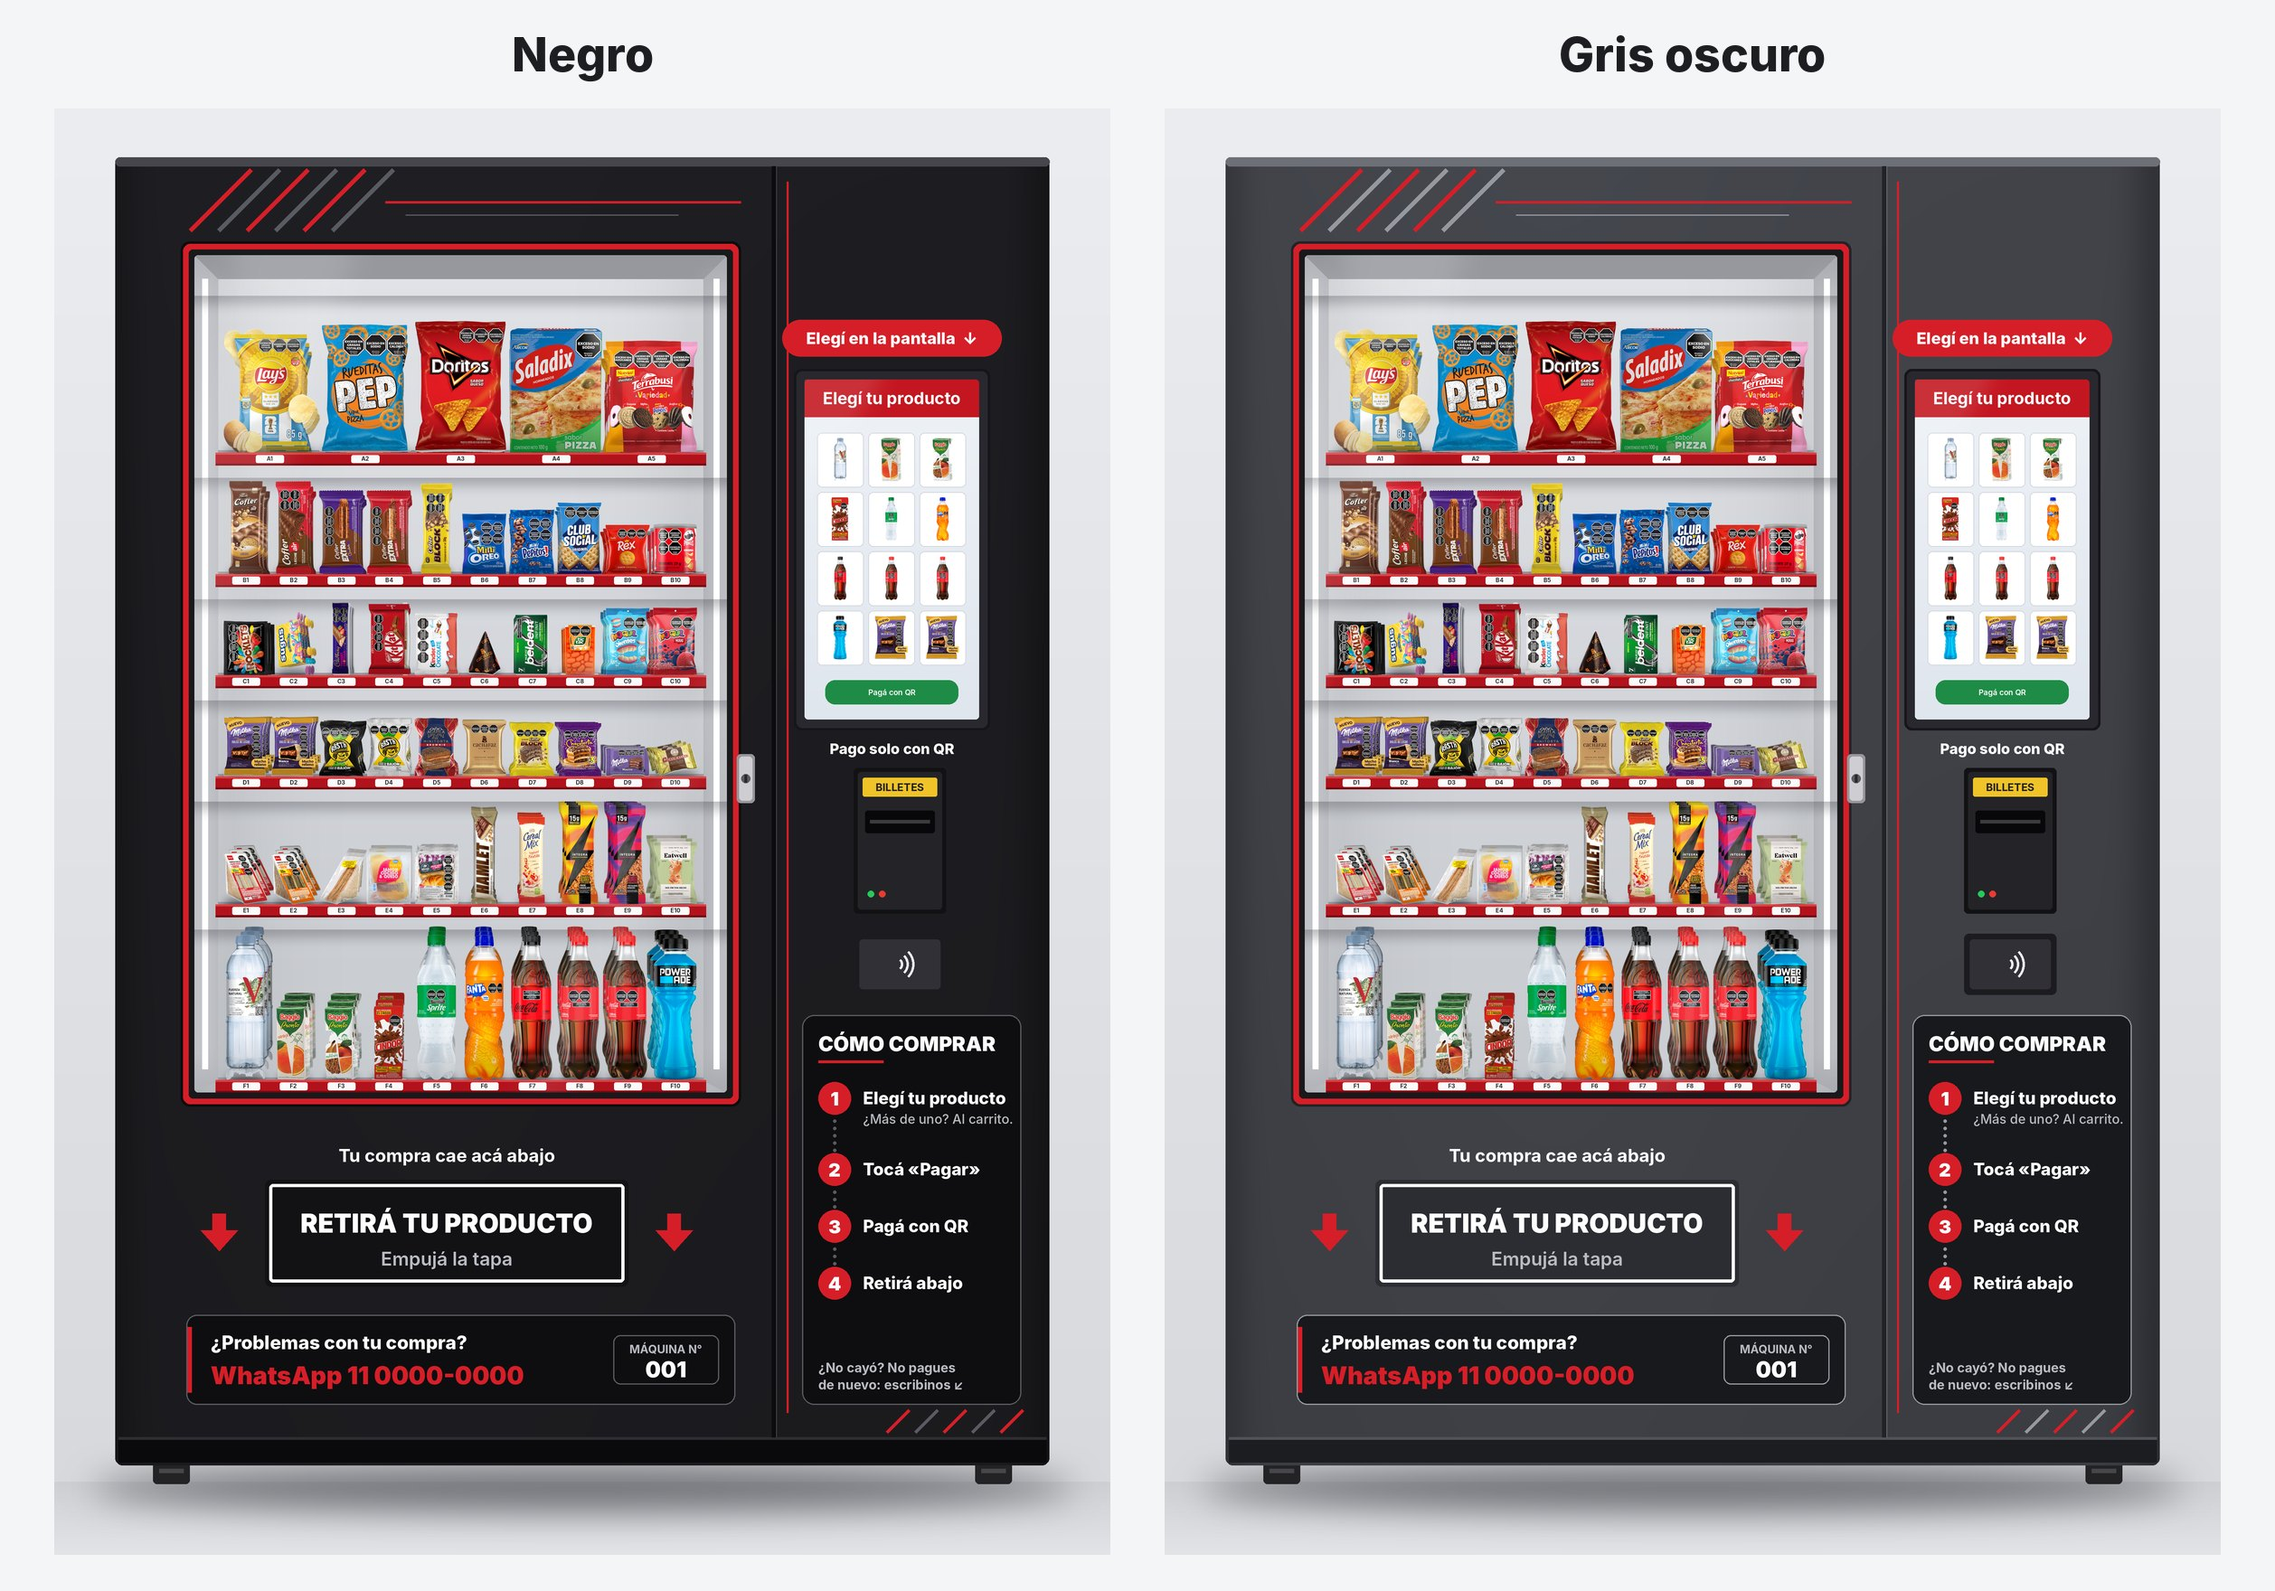
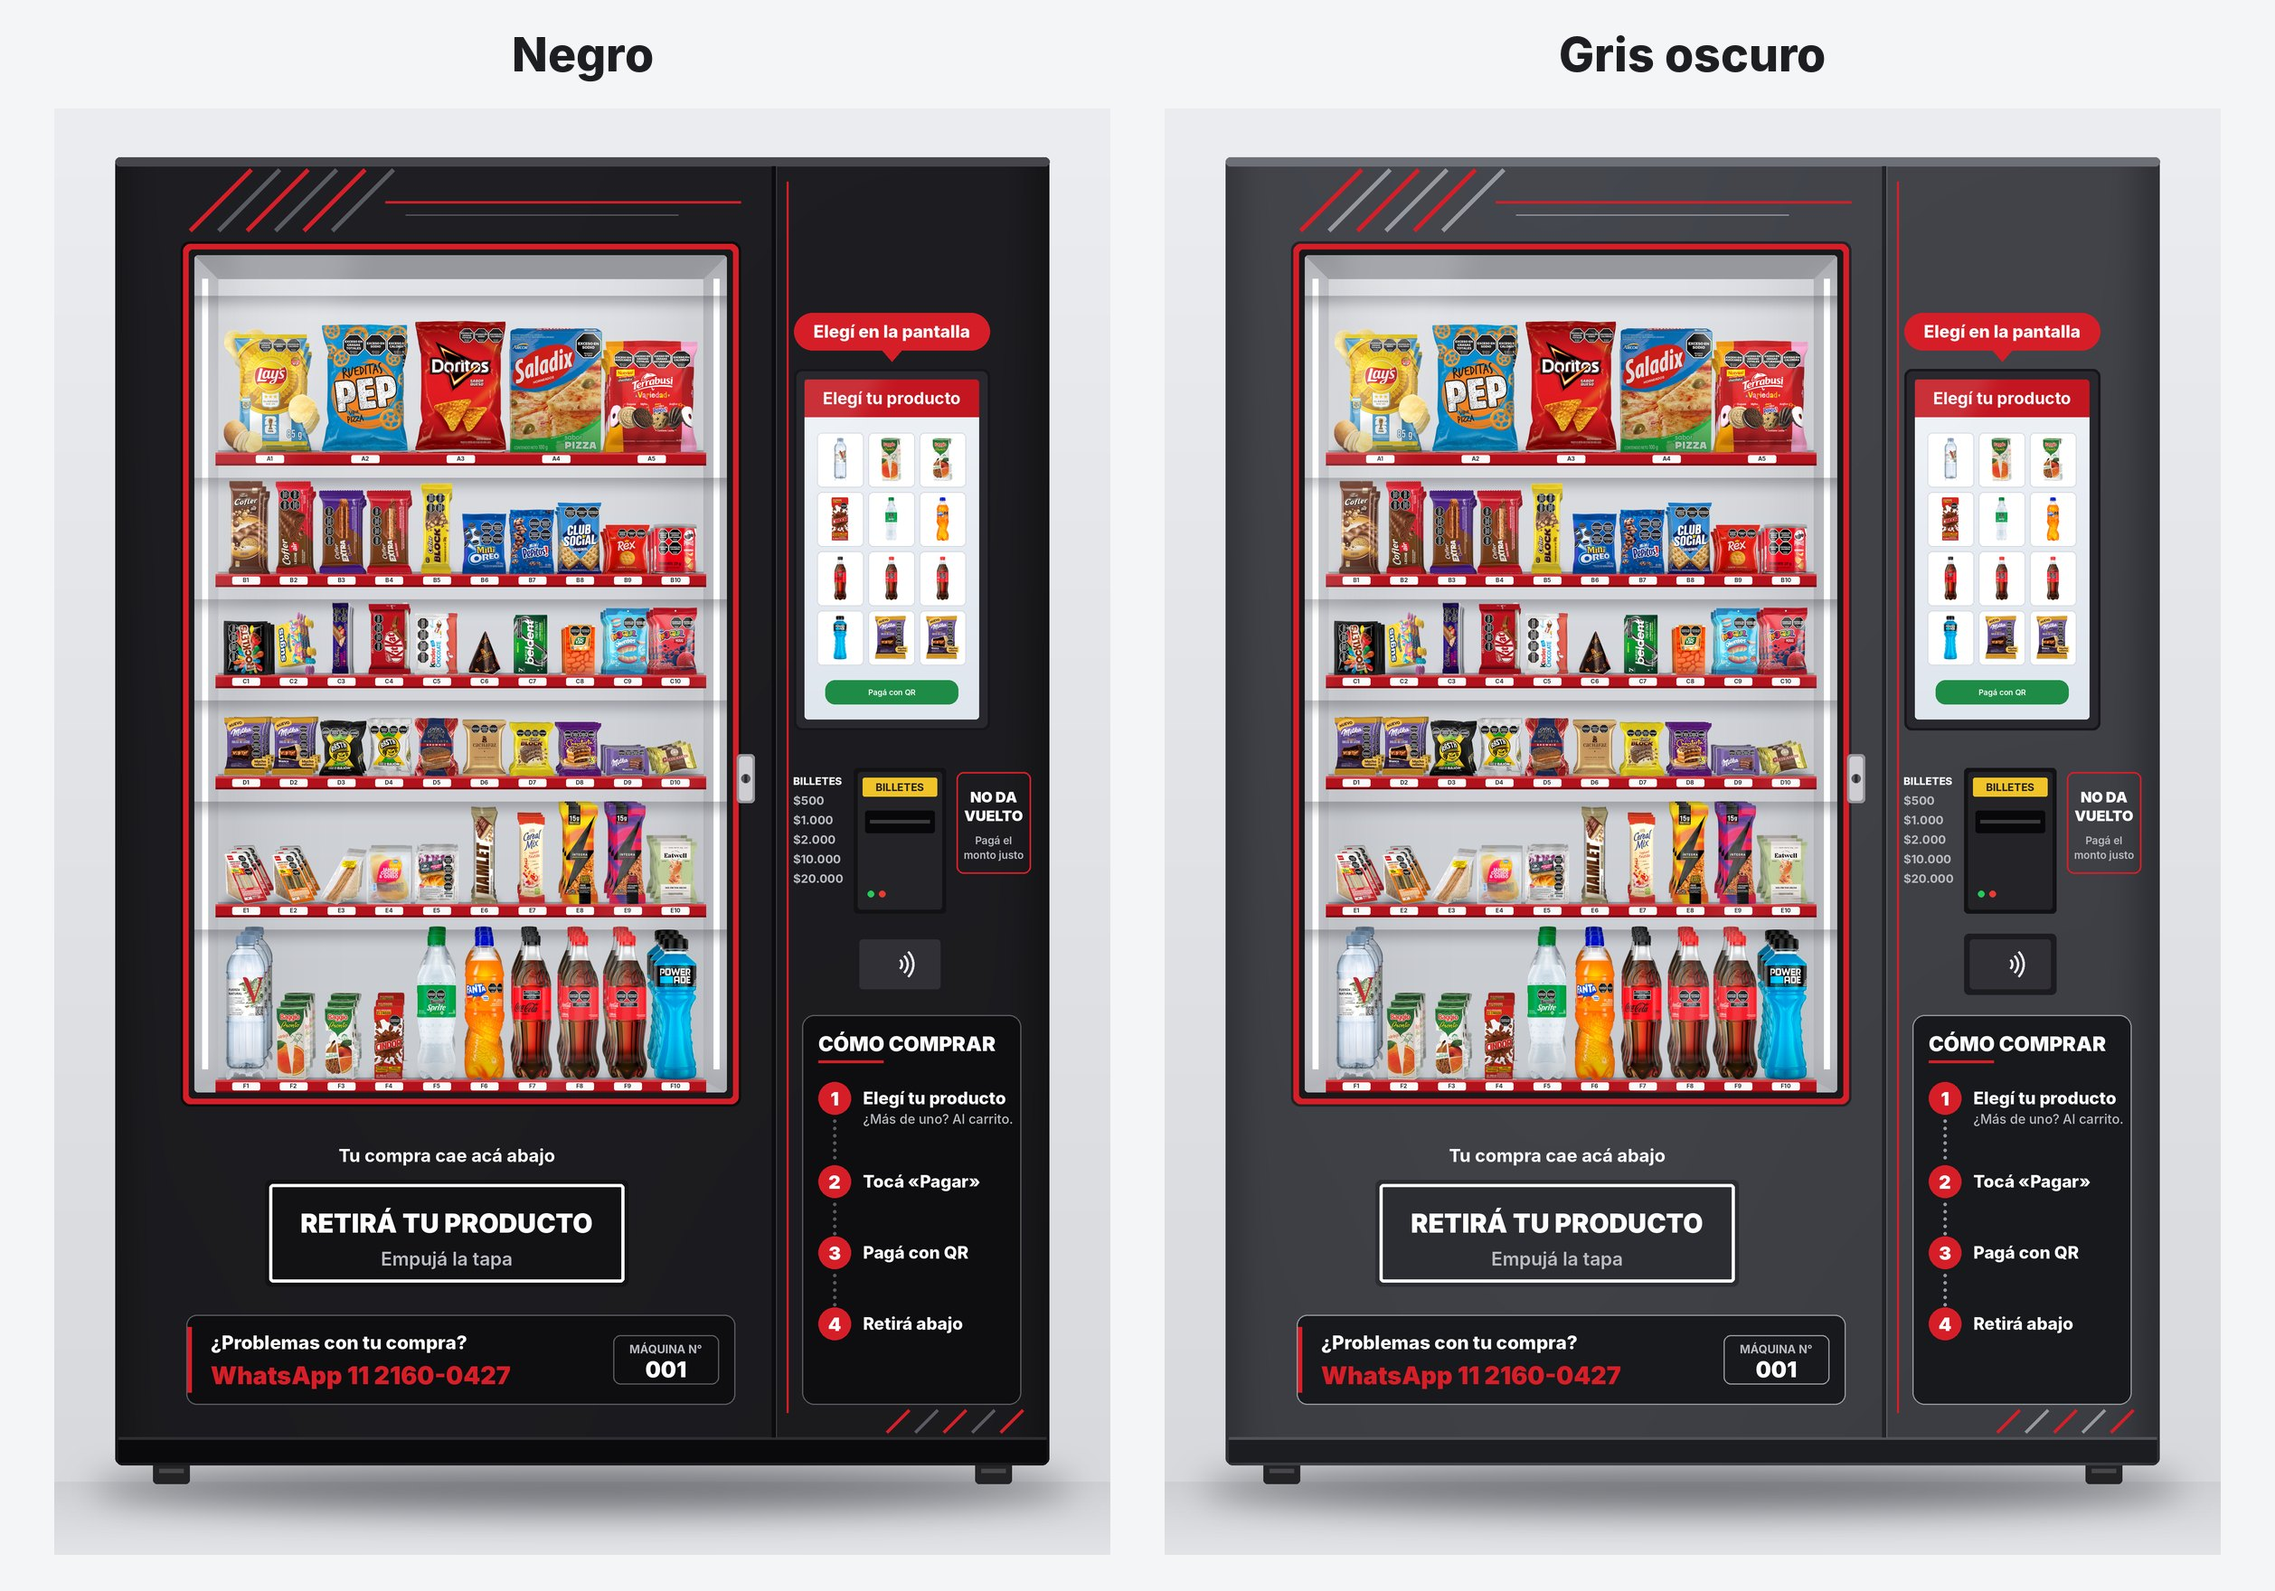
Ploteo sanatorio gris: WhatsApp real, sin flechas ni avisos extra, billetes aclarados
Claude-Session: https://claude.ai/code/session_019riW69UisGa26ciLraXE3K

diff --git a/maquina-expendedora/scripts/ploteo_sanatorio.py b/maquina-expendedora/scripts/ploteo_sanatorio.py
@@ -11,7 +11,7 @@ sys.path.insert(0, os.path.dirname(os.path.abspath(__file__)))
 import componer as C
 from ploteo import fnt, centro, flecha_abajo
 
-WHATSAPP = "11 0000-0000"          # reemplazar por el número real
+WHATSAPP = "11 2160-0427"
 MAQ_N = "001"
 ROJO = (214, 30, 40)
 
@@ -54,13 +54,24 @@ def ploteo(v):
 
     # Elegí en la pantalla (centrado con la pantalla)
     cx = (sx0_ + sx1_) / 2
-    d.rounded_rectangle((cx - 270, 520, cx + 270, 610), 45, fill=ROJO)
-    centro(d, (cx, 565), "Elegí en la pantalla  ↓", fnt("xb", 40), BLANCO)
+    ex0, ex1 = sx0_ - 26, sx1_ + 26            # mismo ancho que el marco de la pantalla
+    ey1 = sy0_ - 26 - 46; ey0 = ey1 - 92       # separado del marco por la altura del piquito
+    d.rounded_rectangle((ex0, ey0, ex1, ey1), 46, fill=ROJO)
+    d.polygon([(cx - 26, ey1 - 2), (cx + 26, ey1 - 2), (cx, ey1 + 28)], fill=ROJO)
+    centro(d, (cx, (ey0 + ey1) / 2), "Elegí en la pantalla", fnt("xb", 42), BLANCO)
 
-    # Pago solo con QR: cartel en lugar del billetero
+    # Billetero: por si se habilita el efectivo (el medio de pago principal es QR)
     bx0, by0, bx1, by1 = C.BILL
-    # (el billetero y el lector siguen físicamente en la máquina: no se tapan con vinilo)
-    centro(d, (cx, sy1_ + 72), "Pago solo con QR", fnt("xb", 36), BLANCO)
+    lx = P + 48
+    d.text((lx, by0 + 6), "BILLETES", font=fnt("xb", 26), fill=BLANCO)
+    for i, b in enumerate(["$500", "$1.000", "$2.000", "$10.000", "$20.000"]):
+        d.text((lx, by0 + 52 + i * 48), b, font=fnt("b", 29), fill=GRIS_T)
+    rx0, rx1 = bx1 + 36, R - 46
+    d.rounded_rectangle((rx0, by0, rx1, by0 + 250), 18, outline=ROJO, width=4)
+    centro(d, ((rx0 + rx1) / 2, by0 + 62), "NO DA", fnt("black", 36), BLANCO)
+    centro(d, ((rx0 + rx1) / 2, by0 + 108), "VUELTO", fnt("black", 36), BLANCO)
+    centro(d, ((rx0 + rx1) / 2, by0 + 168), "Pagá el", fnt("sb", 26), GRIS_T)
+    centro(d, ((rx0 + rx1) / 2, by0 + 204), "monto justo", fnt("sb", 26), GRIS_T)
 
     # Cómo comprar (fondo negro, letras claras, borde de línea)
     sx0, sx1, sy0 = P + 70, R - 70, by1 + 260
@@ -78,11 +89,9 @@ def ploteo(v):
         if sub:
             d.text((sx0 + 150, y + 72), sub, font=fnt("m", 32), fill=GRIS_T)
         if i < len(pasos) - 1:                # línea punteada que une los pasos
-            for yy in range(int(y + 92), int(y + (165 if sub else 132)), 18):
+            for yy in range(int(y + 92), int(y + (195 if sub else 165)), 18):
                 d.ellipse((sx0 + 76, yy, sx0 + 84, yy + 8), fill=l2)
-        y += 175 if sub else 140
-    d.text((sx0 + 40, sy1 - 110), "¿No cayó? No pagues", font=fnt("b", 32), fill=GRIS_T)
-    d.text((sx0 + 40, sy1 - 68), "de nuevo: escribinos ↙", font=fnt("b", 32), fill=GRIS_T)
+        y += 205 if sub else 175
 
     # Puerta de retiro
     qx0, qy0, qx1, qy1 = C.PUSH
@@ -90,8 +99,6 @@ def ploteo(v):
     d.rounded_rectangle((qx0, qy0, qx1, qy1), 10, outline=BLANCO, width=8)
     centro(d, ((qx0 + qx1) / 2, qy0 + (qy1 - qy0) * 0.40), "RETIRÁ TU PRODUCTO", fnt("black", 64), BLANCO)
     centro(d, ((qx0 + qx1) / 2, qy0 + (qy1 - qy0) * 0.76), "Empujá la tapa", fnt("sb", 46), GRIS_T)
-    for k in (-1, 1):
-        flecha_abajo(d, (qx0 + qx1) / 2 + k * 560, qy0 + (qy1 - qy0) * 0.55, 46, ROJO)
     centro(d, ((qx0 + qx1) / 2, qy0 - 70), "Tu compra cae acá abajo", fnt("b", 44), BLANCO)
 
     # Soporte: WhatsApp y número de máquina
